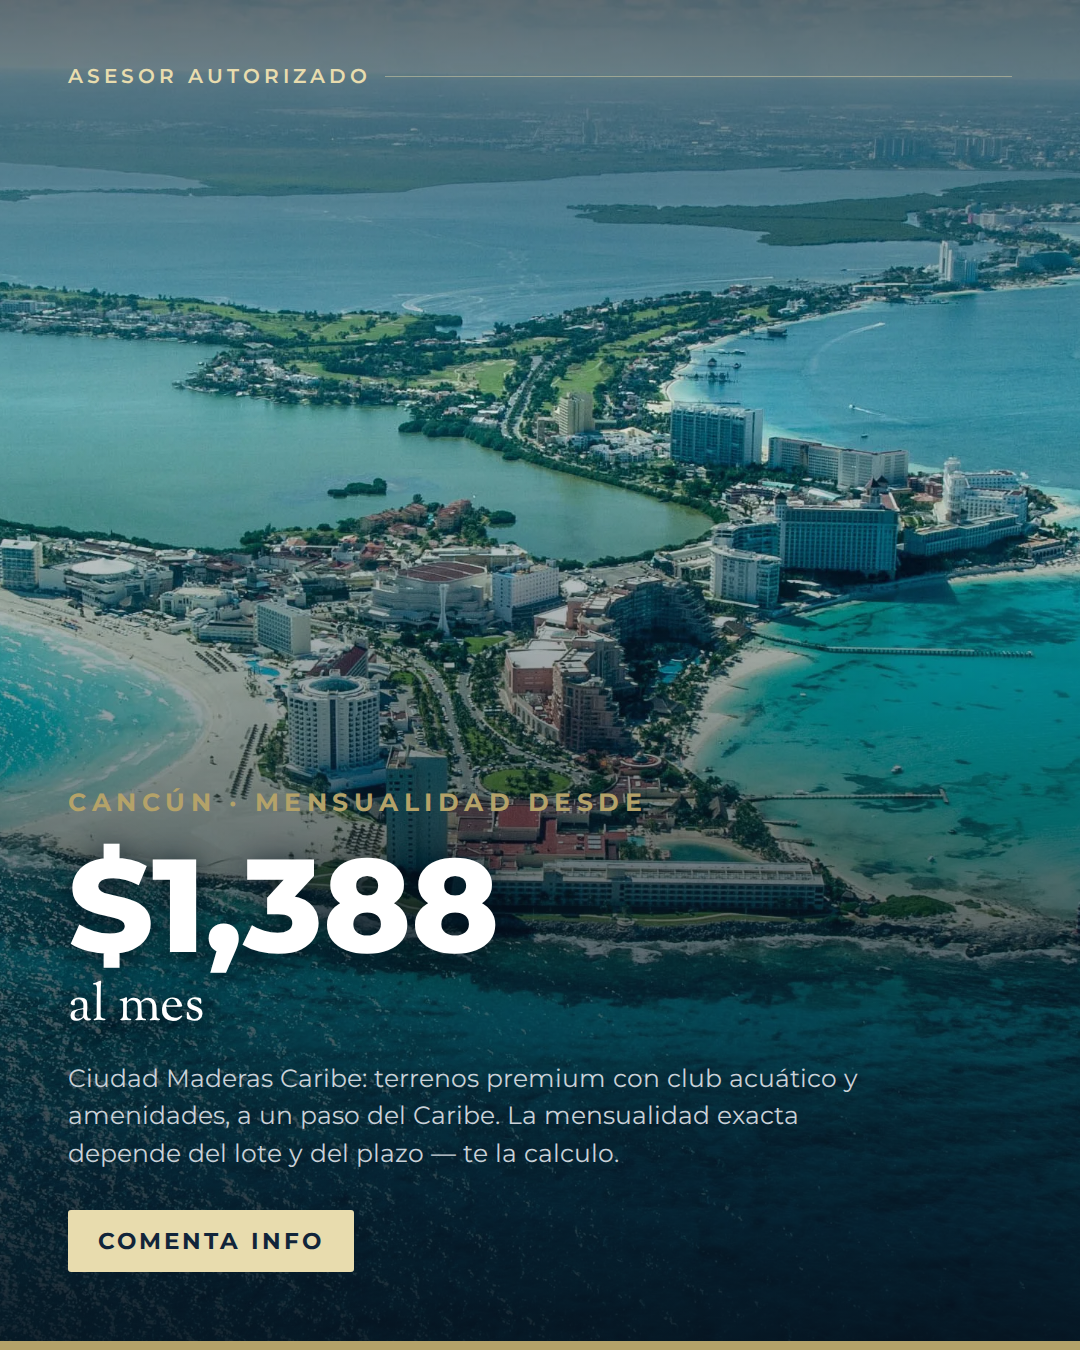
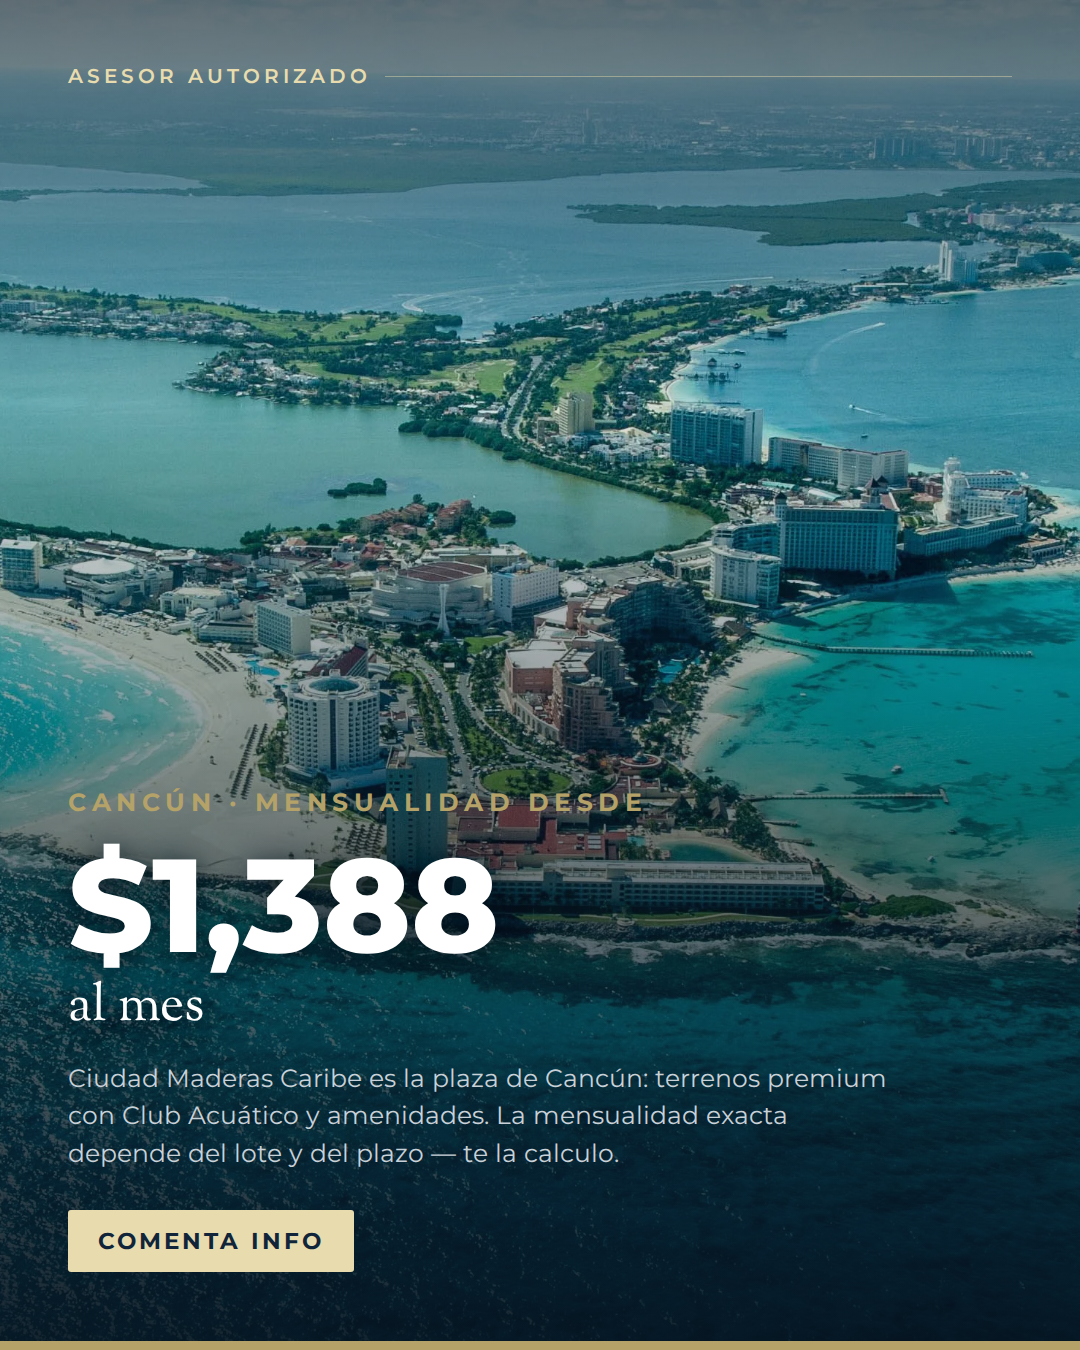
contenido: "Caribe" es la plaza de Cancún, no un desarrollo
El post decía "Ciudad Maderas Caribe, en Cancún" como si hubiera un
desarrollo con ese nombre y esa dirección. Caribe es como la marca llama a
la PLAZA de Quintana Roo, igual que Península a Yucatán o Bajío a
Guanajuato. La propia KB ya lo advertía: en Cancún, Monterrey,
Aguascalientes y Puebla la marca no publica nombres por separado, y en el
sitio oficial la sección "Nuestros Desarrollos" de Quintana Roo viene vacía.

Se cae también "a un paso de la playa": la marca habla de clima y paisajes,
nunca de distancia. Una cercanía inventada es de las que el cliente
comprueba al llegar.

Queda la distinción plaza/desarrollo escrita en el README, con qué plazas sí
publican nombres y cuáles no.

Claude-Session: https://claude.ai/code/session_018vHmmmDsoEfgzHDXUQjXcv

Changed region(s): [[0.0611, 0.7778, 0.825, 0.84]]

diff --git a/contenido/contenido.py b/contenido/contenido.py
@@ -130,9 +130,12 @@ post(
 <div class="eyebrow">Cancún · Mensualidad desde</div>
 <div class="cifra">$1,388</div>
 <div class="grande" style="font-size:52px;margin-top:12px">al mes</div>
-<div class="pie">Ciudad Maderas Caribe: terrenos premium con club acuático y
-  amenidades, a un paso del Caribe. La mensualidad exacta depende del lote y
-  del plazo — te la calculo.</div>
+<!-- "Caribe" es la PLAZA de Quintana Roo, no un desarrollo con ese nombre: la
+     marca no publica nombres por separado en Cancún (ver la KB). Decirlo como
+     desarrollo suena bien y es falso. -->
+<div class="pie">Ciudad Maderas Caribe es la plaza de Cancún: terrenos premium
+  con Club Acuático y amenidades. La mensualidad exacta depende del lote y del
+  plazo — te la calculo.</div>
 <div class="cta">Comenta INFO</div>""",
 )
 

diff --git a/contenido/README.md b/contenido/README.md
@@ -41,8 +41,24 @@ y de escrituración solo que sí se escritura, con costos y tiempos que explica 
 asesor. En su lugar van "sin comprobante de ingresos" y "crédito directo con la
 desarrolladora", que sí están en `starter/member/kb/03-financiamiento.md`.
 
+También se cayó "a un paso de la playa" en el post de Cancún: la marca habla de
+clima caribeño y paisajes, nunca de distancia a la playa. Una cercanía inventada
+es de las que el cliente comprueba al llegar.
+
 **Regla para lo que venga después: si un dato no está en la KB, no va en un
 post.** Ahí es donde vive lo que el asesor puede sostener.
+
+## Plaza ≠ desarrollo
+
+Trampa fácil y ya cayó una vez. **Caribe, Península, Bajío** son los nombres con
+que Ciudad Maderas llama a sus **plazas** (Quintana Roo, Yucatán, Guanajuato),
+no desarrollos con ese nombre. El post decía "Ciudad Maderas Caribe, en Cancún"
+como si fuera un desarrollo con dirección; ahora dice "es la plaza de Cancún".
+
+En Querétaro, León, Mérida y San Luis Potosí la marca **sí** publica los nombres
+de cada desarrollo, y esos se pueden usar tal cual (están en `landing.local.ts`).
+En **Cancún, Monterrey, Aguascalientes y Puebla no los publica** — ahí se nombra
+la ciudad y el detalle lo da un asesor.
 
 ## Rehacerlas o hacer más
 

diff --git a/contenido/textos.md b/contenido/textos.md
@@ -37,8 +37,8 @@ mensaje**, que es donde el bot toma la conversación y califica al prospecto.
 
 > Un terreno en el Caribe desde $1,388 al mes.
 >
-> Ciudad Maderas Caribe, en Cancún: terrenos premium con club acuático y
-> amenidades, a un paso de la playa.
+> Ciudad Maderas Caribe es la plaza de Cancún: terrenos premium con Club
+> Acuático y amenidades.
 >
 > La mensualidad exacta depende del lote y del plazo que elijas — dime cuánto
 > puedes dar de enganche y te la calculo.
